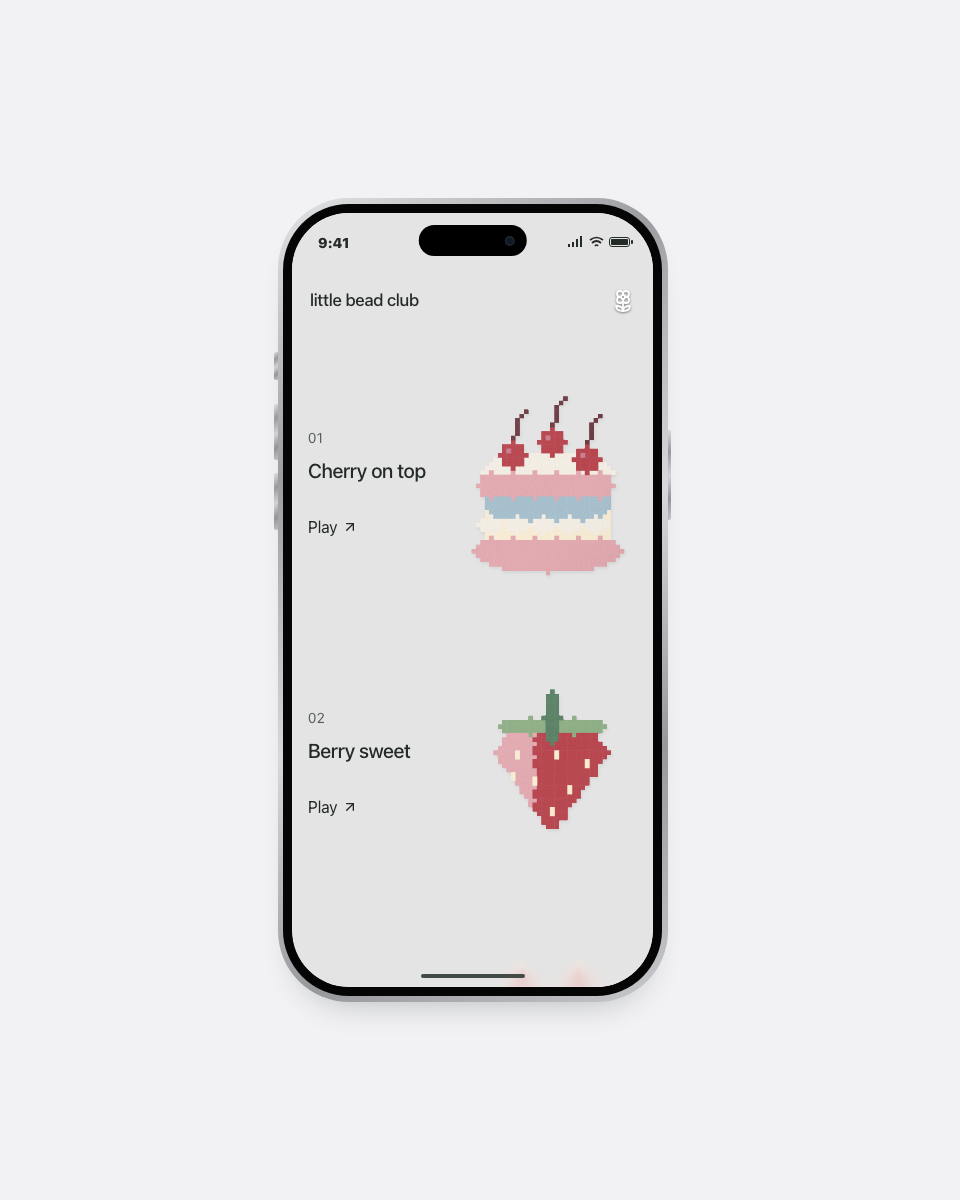
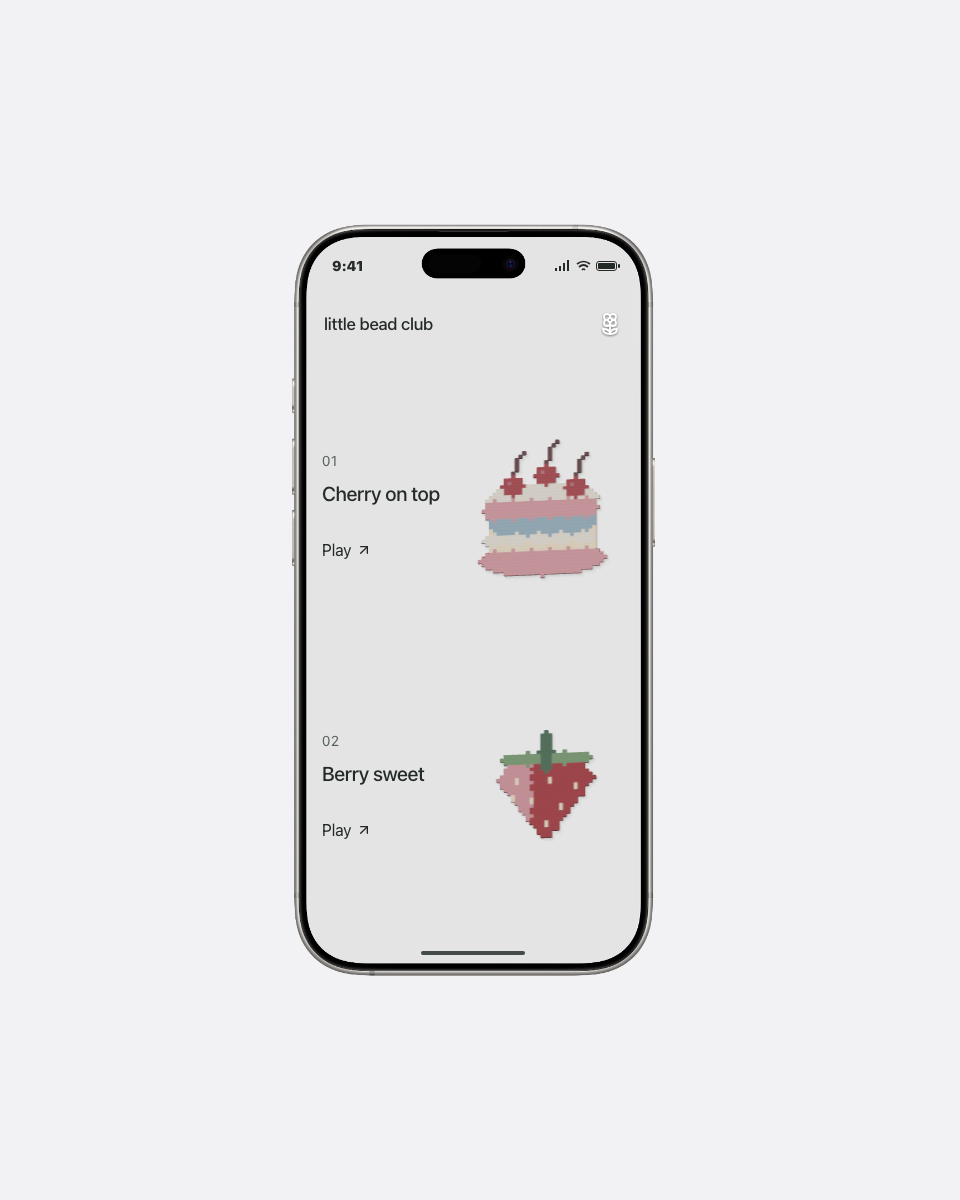
Use an official iPhone bezel and physically shaded fused beads

Changed region(s): [[0.2812, 0.1542, 0.7188, 0.8633]]

diff --git a/components/play/bead-club/bead-club.tsx b/components/play/bead-club/bead-club.tsx
@@ -1,6 +1,8 @@
 "use client";
 
 import * as React from "react";
+import * as THREE from "three";
+import { RoomEnvironment } from "three/examples/jsm/environments/RoomEnvironment.js";
 import { AnimatePresence, motion, useReducedMotion } from "framer-motion";
 import { ArrowLeft, ArrowUpRight, Flower2 } from "lucide-react";
 
@@ -14,7 +16,7 @@ export type BeadClubProps = {
 type Bead = { x: number; y: number; color: string };
 type BeadMaterial = "pressed" | "frosted" | "glitter";
 type Artwork = { material: BeadMaterial; id: string; name: string; category: "Sweet things" | "Little friends"; background: string; beads: Bead[]; colors: string[] };
-const PHONE_HEIGHT = 390 * 622 / 302;
+const PHONE_HEIGHT = 390 * 2822 / 1406;
 const P = { pink: "#e7a9b1", rose: "#c97b8a", cream: "#fff1d8", white: "#f9f3e9", blue: "#a6c1d0", red: "#b93e48", dark: "#68343c", green: "#8baf83", leaf: "#547d60", yellow: "#efd07f", brown: "#a47659" };
 
 // Original patterns, made from a bead grid rather than flattened pictures.
@@ -98,7 +100,7 @@ const artworks: Artwork[] = [
   { id: "bear", name: "Honey bear", category: "Little friends", background: "#eadfd7" },
 ].map(item => { const beads = makePattern(item.id); return { ...item, material: (item.id === "cake" || item.id === "bunny" ? "pressed" : item.id === "pudding" || item.id === "bear" ? "glitter" : "frosted") as BeadMaterial, category: item.category as Artwork["category"], beads, colors: [...new Set(beads.map(bead => bead.color))] }; });
 
-function BeadArt({ art, count = art.beads.length, animated = false }: { art: Artwork; count?: number; animated?: boolean }) {
+function FlatBeadArt({ art, count = art.beads.length, animated = false }: { art: Artwork; count?: number; animated?: boolean }) {
   const id = React.useId().replace(/:/g, "");
   const placed = art.beads.slice(0, count);
   const glitter = art.material === "glitter";
@@ -107,6 +109,20 @@ function BeadArt({ art, count = art.beads.length, animated = false }: { art: Art
   // A separate silhouette mask keeps the gentle color bleed inside the piece.
   const cell = (bead: Bead) => `M${bead.x - .06} ${bead.y - .06}h1.12v1.12h-1.12Z`;
   const silhouette = placed.map(cell).join("");
+  const depth = { x: .1, y: .28 };
+  const occupied = new Set(placed.map(bead => `${bead.x},${bead.y}`));
+  const underside = new Map<string, string[]>();
+  const sides: { path: string; color: string }[] = [];
+  const shade = (color: string, amount: number) => `#${color.slice(1).match(/../g)!.map(channel => Math.round(parseInt(channel, 16) * amount).toString(16).padStart(2, "0")).join("")}`;
+  const wall = (x1: number, y1: number, x2: number, y2: number) => `M${x1} ${y1}L${x2} ${y2}L${x2 + depth.x} ${y2 + depth.y}L${x1 + depth.x} ${y1 + depth.y}Z`;
+  for (const bead of placed) {
+    const paths = underside.get(bead.color) ?? [];
+    paths.push(cell(bead));
+    underside.set(bead.color, paths);
+    // Only the exposed perimeter has a side wall. Interior joins stay fused.
+    if (!occupied.has(`${bead.x + 1},${bead.y}`)) sides.push({ path: wall(bead.x + 1.06, bead.y - .06, bead.x + 1.06, bead.y + 1.06), color: shade(bead.color, .84) });
+    if (!occupied.has(`${bead.x},${bead.y + 1}`)) sides.push({ path: wall(bead.x - .06, bead.y + 1.06, bead.x + 1.06, bead.y + 1.06), color: shade(bead.color, .9) });
+  }
   return <svg viewBox="0 0 40 42" role="img" aria-label={`${art.name} ${art.material} fused bead pattern`} className="bc-art" data-material={art.material}>
     <defs>
       <filter id={`${id}-edge`} x="-5%" y="-5%" width="110%" height="110%" colorInterpolationFilters="sRGB">
@@ -131,6 +147,12 @@ function BeadArt({ art, count = art.beads.length, animated = false }: { art: Art
       </filter>
       <linearGradient id={`${id}-light`} x1="0" y1="0" x2=".8" y2="1"><stop stopColor="#fff" stopOpacity=".05" /><stop offset=".55" stopColor="#fff" stopOpacity="0" /><stop offset="1" stopColor="#5c5149" stopOpacity=".04" /></linearGradient>
     </defs>
+    <g className="bc-bead-thickness" aria-hidden="true">
+      <g transform={`translate(${depth.x} ${depth.y})`} mask={`url(#${id}-shape)`}>
+        {[...underside].map(([color, paths]) => <path key={color} d={paths.join("")} fill={shade(color, .84)} />)}
+      </g>
+      {sides.map((side, index) => <path key={index} d={side.path} fill={side.color} stroke={side.color} strokeWidth=".045" strokeLinejoin="round" />)}
+    </g>
     <g className="bc-material-surface" mask={`url(#${id}-shape)`}>
       <g className="bc-fused-colors" filter={`url(#${id}-surface)`}>
         {placed.map(bead => <g key={`${bead.x}-${bead.y}`} data-bead-color={bead.color} className={animated ? "bc-bead-drop" : undefined} style={{ transformOrigin: `${bead.x + .5}px ${bead.y + .5}px` }}><path d={cell(bead)} fill={bead.color} /></g>)}
@@ -146,6 +168,157 @@ function BeadArt({ art, count = art.beads.length, animated = false }: { art: Art
       })}
     </g>
   </svg>;
+}
+
+// One offscreen renderer serves every preview; displayed canvases are plain 2D.
+// Geometry and lighting, rather than painted side-wall colors, create the depth.
+function fusedShapes(beads: Bead[]) {
+  type Edge = { x: number; y: number; ex: number; ey: number; dir: number; used?: boolean };
+  const occupied = new Set(beads.map(b => `${b.x},${b.y}`));
+  const edges: Edge[] = [];
+  const starts = new Map<string, Edge[]>();
+  const add = (edge: Edge) => { edges.push(edge); const key = `${edge.x},${edge.y}`; const list = starts.get(key) ?? []; list.push(edge); starts.set(key, list); };
+  for (const b of beads) {
+    if (!occupied.has(`${b.x},${b.y - 1}`)) add({ x: b.x, y: b.y, ex: b.x + 1, ey: b.y, dir: 0 });
+    if (!occupied.has(`${b.x + 1},${b.y}`)) add({ x: b.x + 1, y: b.y, ex: b.x + 1, ey: b.y + 1, dir: 1 });
+    if (!occupied.has(`${b.x},${b.y + 1}`)) add({ x: b.x + 1, y: b.y + 1, ex: b.x, ey: b.y + 1, dir: 2 });
+    if (!occupied.has(`${b.x - 1},${b.y}`)) add({ x: b.x, y: b.y + 1, ex: b.x, ey: b.y, dir: 3 });
+  }
+  const loops: { points: { x: number; y: number }[]; area: number }[] = [];
+  for (const first of edges) {
+    if (first.used) continue;
+    const points: { x: number; y: number }[] = [];
+    let edge: Edge | undefined = first;
+    while (edge && !edge.used) {
+      edge.used = true; points.push({ x: edge.x, y: edge.y });
+      if (edge.ex === first.x && edge.ey === first.y) break;
+      const dir: number = edge.dir;
+      edge = (starts.get(`${edge.ex},${edge.ey}`) ?? []).filter(candidate => !candidate.used).sort((a, b) => [1, 0, 3, 2].indexOf((a.dir - dir + 4) % 4) - [1, 0, 3, 2].indexOf((b.dir - dir + 4) % 4))[0];
+    }
+    const area = points.reduce((sum, p, i) => { const q = points[(i + 1) % points.length]; return sum + p.x * q.y - q.x * p.y; }, 0) / 2;
+    if (points.length > 2) loops.push({ points, area });
+  }
+  const outer = loops.filter(loop => loop.area > 0);
+  const contains = (poly: { x: number; y: number }[], p: { x: number; y: number }) => {
+    let inside = false;
+    for (let i = 0, j = poly.length - 1; i < poly.length; j = i++) {
+      if ((poly[i].y > p.y) !== (poly[j].y > p.y) && p.x < (poly[j].x - poly[i].x) * (p.y - poly[i].y) / (poly[j].y - poly[i].y) + poly[i].x) inside = !inside;
+    }
+    return inside;
+  };
+  const rounded = <T extends THREE.Path>(path: T, points: { x: number; y: number }[]) => {
+    const corners = points.filter((p, i) => { const a = points[(i + points.length - 1) % points.length], b = points[(i + 1) % points.length]; return (p.x - a.x) * (b.y - p.y) !== (p.y - a.y) * (b.x - p.x); });
+    for (let i = 0; i < corners.length; i++) {
+      const p = corners[i], a = corners[(i + corners.length - 1) % corners.length], b = corners[(i + 1) % corners.length];
+      const da = Math.hypot(a.x - p.x, a.y - p.y), db = Math.hypot(b.x - p.x, b.y - p.y), r = Math.min(.18, da / 3, db / 3);
+      const entry = { x: p.x + (a.x - p.x) * r / da - 20, y: 21 - p.y - (a.y - p.y) * r / da };
+      const exit = { x: p.x + (b.x - p.x) * r / db - 20, y: 21 - p.y - (b.y - p.y) * r / db };
+      if (!i) path.moveTo(entry.x, entry.y); else path.lineTo(entry.x, entry.y);
+      path.quadraticCurveTo(p.x - 20, 21 - p.y, exit.x, exit.y);
+    }
+    path.closePath(); return path;
+  };
+  return outer.map(loop => {
+    const shape = rounded(new THREE.Shape(), loop.points);
+    for (const hole of loops.filter(item => item.area < 0)) {
+      if (contains(loop.points, hole.points[0])) shape.holes.push(rounded(new THREE.Path(), hole.points));
+    }
+    return shape;
+  });
+}
+
+function physicalMaterials(art: Artwork) {
+  const resolution = 20;
+  const color = document.createElement("canvas"); color.width = 40 * resolution; color.height = 42 * resolution;
+  const ctx = color.getContext("2d")!;
+  ctx.fillStyle = art.beads[0]?.color ?? "#f0eade"; ctx.fillRect(0, 0, color.width, color.height);
+  for (const bead of art.beads) { ctx.fillStyle = bead.color; ctx.fillRect((bead.x - .2) * resolution, (bead.y - .2) * resolution, resolution * 1.4, resolution * 1.4); }
+  for (const bead of art.beads) { ctx.fillStyle = bead.color; ctx.fillRect(bead.x * resolution, bead.y * resolution, resolution, resolution); }
+  const bump = document.createElement("canvas"); bump.width = color.width; bump.height = color.height;
+  const bumpCtx = bump.getContext("2d")!; const image = bumpCtx.createImageData(bump.width, bump.height);
+  for (let y = 0; y < bump.height; y++) for (let x = 0; x < bump.width; x++) {
+    const seed = ((x * 73856093) ^ (y * 19349663)) >>> 0;
+    const dx = x % resolution / resolution - .5, dy = y % resolution / resolution - .5;
+    const v = 128 + (seed % 9 - 4) * .7 - Math.exp(-(dx * dx + dy * dy) / .025) * 22;
+    const i = (y * bump.width + x) * 4; image.data[i] = image.data[i + 1] = image.data[i + 2] = v; image.data[i + 3] = 255;
+  }
+  bumpCtx.putImageData(image, 0, 0);
+  const map = new THREE.CanvasTexture(color); map.colorSpace = THREE.SRGBColorSpace; map.anisotropy = 4;
+  const bumpMap = new THREE.CanvasTexture(bump); bumpMap.generateMipmaps = false; bumpMap.minFilter = THREE.LinearFilter;
+  const finish = art.material === "pressed" ? { bumpScale: .6, roughness: .55, clearcoat: .16 } : art.material === "frosted" ? { bumpScale: .38, roughness: .68, clearcoat: .08 } : { bumpScale: .3, roughness: .4, clearcoat: .32 };
+  const common = { map, bumpMap, ...finish, metalness: 0, clearcoatRoughness: .5, ior: 1.46 };
+  return [new THREE.MeshPhysicalMaterial(common), new THREE.MeshPhysicalMaterial({ ...common, bumpScale: .012, roughness: .46, clearcoat: .4 })];
+}
+
+type BeadStudio = { renderer: THREE.WebGLRenderer; scene: THREE.Scene; camera: THREE.OrthographicCamera; mesh: THREE.Mesh; materials: Map<string, THREE.MeshPhysicalMaterial[]>; completed: Map<string, THREE.BufferGeometry> };
+let beadStudio: BeadStudio | undefined;
+let beadWebGLUnavailable = false;
+function getBeadStudio() {
+  if (beadStudio) return beadStudio;
+  if (beadWebGLUnavailable) return null;
+  let renderer: THREE.WebGLRenderer;
+  try { renderer = new THREE.WebGLRenderer({ alpha: true, antialias: true, preserveDrawingBuffer: true }); }
+  catch { beadWebGLUnavailable = true; return null; }
+  renderer.setPixelRatio(1); renderer.setClearColor(0, 0); renderer.outputColorSpace = THREE.SRGBColorSpace;
+  renderer.toneMapping = THREE.NoToneMapping; renderer.toneMappingExposure = 1;
+  renderer.shadowMap.enabled = true; renderer.shadowMap.type = THREE.PCFShadowMap;
+  const scene = new THREE.Scene();
+  const room = new RoomEnvironment(); const pmrem = new THREE.PMREMGenerator(renderer);
+  const environment = pmrem.fromScene(room, .04).texture; scene.environment = environment; scene.environmentIntensity = .28; room.dispose(); pmrem.dispose();
+  scene.add(new THREE.HemisphereLight(0xffffff, 0xaaa394, .08));
+  const light = new THREE.DirectionalLight(0xffffff, 1.1); light.position.set(-28, 38, 32); light.castShadow = true;
+  Object.assign(light.shadow.camera, { left: -26, right: 26, top: 27, bottom: -27, near: 1, far: 120 });
+  light.shadow.mapSize.set(512, 512); light.shadow.bias = -.0002; light.shadow.normalBias = .03; light.shadow.radius = 3.5;
+  scene.add(light);
+  const mesh = new THREE.Mesh(new THREE.BufferGeometry(), new THREE.MeshPhysicalMaterial()); mesh.castShadow = true; mesh.receiveShadow = true; scene.add(mesh);
+  const floor = new THREE.Mesh(new THREE.PlaneGeometry(70, 70), new THREE.ShadowMaterial({ opacity: .12 })); floor.position.z = -.12; floor.receiveShadow = true; scene.add(floor);
+  const camera = new THREE.OrthographicCamera(-23, 23, 23, -23, .1, 180); camera.position.set(8, -42, 85); camera.lookAt(0, 0, 0);
+  beadStudio = { renderer, scene, camera, mesh, materials: new Map(), completed: new Map() };
+  return beadStudio;
+}
+
+function drawPhysicalBeads(canvas: HTMLCanvasElement, art: Artwork, count: number) {
+  const studio = getBeadStudio();
+  if (!studio || studio.renderer.getContext().isContextLost()) return false;
+  const rect = canvas.getBoundingClientRect(); if (!rect.width || !rect.height) return false;
+  const pixelRatio = Math.min(window.devicePixelRatio || 1, 2);
+  const width = Math.ceil(rect.width * pixelRatio), height = Math.ceil(rect.height * pixelRatio);
+  canvas.width = width; canvas.height = height;
+  const ctx = canvas.getContext("2d")!; ctx.clearRect(0, 0, width, height);
+  if (!count) return true;
+  let geometry = count === art.beads.length ? studio.completed.get(art.id) : undefined;
+  if (!geometry) {
+    const uv = (vertices: number[], index: number) => new THREE.Vector2((vertices[index * 3] + 20) / 40, (vertices[index * 3 + 1] + 21) / 42);
+    geometry = new THREE.ExtrudeGeometry(fusedShapes(art.beads.slice(0, count)), {
+      depth: .26, curveSegments: 3, bevelEnabled: true, bevelThickness: .07, bevelSize: .1, bevelSegments: 4, steps: 1,
+      UVGenerator: { generateTopUV: (_g, vertices, ...indices) => indices.map(i => uv(vertices, i)), generateSideWallUV: (_g, vertices, ...indices) => indices.map(i => uv(vertices, i)) },
+    });
+    if (count === art.beads.length) studio.completed.set(art.id, geometry);
+  }
+  const materials = studio.materials.get(art.id) ?? physicalMaterials(art); studio.materials.set(art.id, materials);
+  studio.mesh.geometry = geometry; studio.mesh.material = materials;
+  const aspect = width / height, viewHeight = Math.max(45, 43 / aspect);
+  Object.assign(studio.camera, { left: -viewHeight * aspect / 2, right: viewHeight * aspect / 2, top: viewHeight / 2, bottom: -viewHeight / 2 }); studio.camera.updateProjectionMatrix();
+  studio.renderer.setSize(width, height, false); studio.renderer.render(studio.scene, studio.camera);
+  ctx.drawImage(studio.renderer.domElement, 0, 0);
+  if (count !== art.beads.length) geometry.dispose();
+  return true;
+}
+
+function BeadArt({ art, count = art.beads.length, animated = false }: { art: Artwork; count?: number; animated?: boolean }) {
+  const ref = React.useRef<HTMLCanvasElement>(null);
+  const [ready, setReady] = React.useState(false);
+  React.useEffect(() => {
+    const canvas = ref.current; if (!canvas) return;
+    let frame = 0;
+    const paint = () => { cancelAnimationFrame(frame); frame = requestAnimationFrame(() => { try { if (drawPhysicalBeads(canvas, art, count)) setReady(true); } catch { setReady(false); } }); };
+    const observer = new ResizeObserver(paint); observer.observe(canvas); paint();
+    return () => { observer.disconnect(); cancelAnimationFrame(frame); };
+  }, [art, count]);
+  return <div className="bc-art bc-art-3d" role="img" aria-label={`${art.name} fused plastic bead pattern`} data-material={art.material} data-render-mode={ready ? "physical" : "fallback"} data-placed={count} data-active-color={art.beads[Math.max(0, count - 1)]?.color}>
+    <canvas ref={ref} aria-hidden="true" style={{ width: "100%", height: "100%", opacity: ready ? 1 : 0 }} />
+    {!ready && <div aria-hidden="true" style={{ display: "contents" }}><FlatBeadArt art={art} count={count} animated={animated} /></div>}
+  </div>;
 }
 
 function Replay({ art, onBack, reduced }: { art: Artwork; onBack: () => void; reduced: boolean }) {
@@ -186,15 +359,6 @@ function Replay({ art, onBack, reduced }: { art: Artwork; onBack: () => void; re
   </motion.section>;
 }
 
-// Same 280 × 600 screen, 7px bezel, 4px band and 44px screen radius as
-// UI Walkthrough's IPhoneFrame. A single width unit keeps every radius aligned.
-function SilverIPhoneFrame() {
-  return <div className="bc-silver-frame" aria-hidden="true">
-    <span className="bc-side bc-side-action" /><span className="bc-side bc-side-up" /><span className="bc-side bc-side-down" /><span className="bc-side bc-side-power" />
-    <span className="bc-frame-band" /><span className="bc-frame-bezel" />
-  </div>;
-}
-
 
 export function BeadClub({ loop = false, className }: BeadClubProps) {
   const host = React.useRef<HTMLDivElement>(null);
@@ -225,9 +389,8 @@ export function BeadClub({ loop = false, className }: BeadClubProps) {
   return <div ref={host} className={`bc-stage ${className ?? ""}`} data-preview={loop ? "loop" : "interactive"}>
     <style>{styles}</style>
     <div className="bc-phone-space" style={loop ? { width: 390 * scale, height: PHONE_HEIGHT * scale } : undefined}><div className="bc-phone" style={loop ? { width: 390, height: PHONE_HEIGHT, transform: `scale(${scale})` } : undefined}>
-      <SilverIPhoneFrame />
+
       <div className="bc-screen" data-detail={!!selected}>
-        <div className="bc-island" aria-hidden="true"><span /></div>
         <div className="bc-status" aria-hidden="true"><b>9:41</b><div className="bc-indicators"><svg width="16" height="12" viewBox="0 0 16 12"><path d="M1 8v3M5 6v5M9 3v8M13 0v11" stroke="currentColor" strokeWidth="2" /></svg><svg width="15" height="12" viewBox="0 0 15 12"><path d="M1 4Q7.5-1 14 4M3 7q4.5-4 9 0M6 10q1.5-2 3 0" fill="none" stroke="currentColor" strokeWidth="1.7" /></svg><span className="bc-battery" /></div></div>
         <div className="bc-collection" inert={!!selected}>
           <header className="bc-header"><span>little bead club</span><Flower2 className="bc-flower" size={24} strokeWidth={1.8} aria-hidden="true" /></header>
@@ -243,7 +406,9 @@ export function BeadClub({ loop = false, className }: BeadClubProps) {
         <div className="bc-glass-reflection" aria-hidden="true" />
         <div className="bc-home" aria-hidden="true" />
       </div>
-
+      {/* Apple Design Resources product bezel; retain its separate asset terms. */}
+      {/* eslint-disable-next-line @next/next/no-img-element */}
+      <img className="bc-device-frame" src="/components/bead-club/iphone-16-pro-white.png" width="1406" height="2822" alt="" aria-hidden="true" draggable={false} />
     </div></div>
   </div>;
 }
@@ -251,17 +416,16 @@ export function BeadClub({ loop = false, className }: BeadClubProps) {
 const styles = `
 .bc-stage{width:100%;height:100%;min-height:520px;display:flex;align-items:center;justify-content:center;overflow:hidden;background:transparent;color:#242a26;font-family:-apple-system,BlinkMacSystemFont,"Helvetica Neue",Arial,sans-serif;isolation:isolate}.bc-stage[data-preview="interactive"]{min-height:844px}
 .bc-stage *{box-sizing:border-box}.bc-stage button{cursor:pointer;font-family:inherit;color:inherit}.bc-stage button:focus-visible{outline:2px solid #3c5044;outline-offset:4px}.bc-sr-only{position:absolute;width:1px;height:1px;padding:0;margin:-1px;overflow:hidden;clip-path:inset(50%);white-space:nowrap;border:0}
-.bc-phone-space{position:relative;flex-shrink:0;width:min(390px,calc(100% - 16px));aspect-ratio:302/622}.bc-phone{position:absolute;inset:0;width:100%;height:100%;transform-origin:top left;container-type:inline-size;--bc-silver:linear-gradient(145deg,#e4e5e6 0%,#9b9da0 26%,#d7d8db 52%,#96989c 76%,#c7c9cd 100%)}
-.bc-silver-frame{position:absolute;inset:0;pointer-events:none}.bc-frame-band{position:absolute;inset:0;border-radius:calc(100cqw * 55 / 302);background:var(--bc-silver);box-shadow:0 20px 36px -24px #17201a55}.bc-frame-bezel{position:absolute;inset:calc(100cqw * 4 / 302);border-radius:calc(100cqw * 51 / 302);background:#050506}.bc-side{position:absolute;left:-.83%;width:1.16%;border-radius:2px;background:var(--bc-silver)}.bc-side-action{top:19.13%;height:3.54%}.bc-side-up{top:25.56%;height:7.07%}.bc-side-down{top:34.24%;height:7.07%}.bc-side-power{left:auto;right:-.83%;top:28.78%;height:11.25%}
-.bc-screen{position:absolute;inset:calc(100cqw * 11 / 302);overflow:hidden;border-radius:calc(100cqw * 44 / 302);clip-path:inset(0 round calc(100cqw * 44 / 302));background:#e4e4e4;isolation:isolate}.bc-island{position:absolute;left:50%;top:calc(100cqw * 10 / 302);width:calc(100cqw * 84 / 302);height:calc(100cqw * 24 / 302);transform:translateX(-50%);border-radius:calc(100cqw * 12 / 302);background:#000;pointer-events:none;z-index:15}.bc-island>span{position:absolute;right:calc(100cqw * 9 / 302);top:calc(100cqw * 8 / 302);width:calc(100cqw * 8 / 302);height:calc(100cqw * 8 / 302);border-radius:50%;background:#111a24;box-shadow:inset 0 0 0 1.5px #1c2733}
+.bc-phone-space{position:relative;flex-shrink:0;width:min(390px,calc(100% - 8px));aspect-ratio:1406/2822}.bc-phone{position:absolute;inset:0;width:100%;height:100%;transform-origin:top left;container-type:inline-size}.bc-device-frame{position:absolute;inset:0;width:100%;height:100%;pointer-events:none;z-index:20}
+.bc-screen{position:absolute;left:7.254623%;top:3.543586%;width:85.775249%;height:92.912828%;overflow:hidden;mask-image:url('/components/bead-club/iphone-screen-mask.svg');-webkit-mask-image:url('/components/bead-club/iphone-screen-mask.svg');mask-size:100% 100%;-webkit-mask-size:100% 100%;background:#e4e4e4;isolation:isolate}
 
 .bc-status{height:55px;position:relative;display:flex;align-items:center;justify-content:space-between;padding:4px clamp(15px,6cqw,24px) 0 clamp(16px,6.7cqw,26px);z-index:12;font-size:14px;font-weight:600;color:#242a26;background:transparent}.bc-indicators{display:flex;align-items:center;gap:5px}.bc-battery{width:21px;height:10px;border-radius:3px;border:1px solid currentColor;position:relative}.bc-battery:before{content:'';position:absolute;inset:1px;background:currentColor;border-radius:1px}.bc-battery:after{content:'';position:absolute;width:2px;height:4px;right:-4px;top:2px;background:currentColor;border-radius:1px}
 .bc-header::before,.bc-detail-nav::before{content:'';position:absolute;left:0;right:0;top:-55px;bottom:-28px;z-index:-1;background:transparent;backdrop-filter:blur(14px);-webkit-backdrop-filter:blur(14px);mask-image:linear-gradient(#000 0%,#000 68%,transparent 100%);-webkit-mask-image:linear-gradient(#000 0%,#000 68%,transparent 100%);pointer-events:none}
 .bc-screen[data-detail="true"] .bc-collection{visibility:hidden}.bc-collection{position:relative;height:calc(100% - 55px);display:flex;flex-direction:column}.bc-header{position:absolute;left:0;right:0;top:0;z-index:8;min-height:78px;color:#242a26;padding:14px 18px 26px;display:flex;align-items:center;justify-content:space-between;gap:8px;font-size:1.0625rem;font-weight:500;letter-spacing:-.35px}.bc-flower{flex-shrink:0;color:#fff;filter:drop-shadow(0 1px 1px #28362a99)}.bc-list{flex:1;min-height:0;overflow:auto;overscroll-behavior:contain;padding:94px 16px 72px;scrollbar-width:none;scroll-padding:16px 0 72px}.bc-list::-webkit-scrollbar{display:none}
-.bc-card{width:100%;border:0;background:transparent;padding:0;margin:0 0 28px;display:grid;grid-template-columns:minmax(0,1fr) minmax(0,1.2fr);gap:10px;text-align:left;align-items:center;scroll-margin:16px 0 72px}.bc-card-copy{padding:12px 0;display:flex;flex-direction:column;align-items:flex-start;min-width:0;overflow-wrap:anywhere}.bc-number{font-size:.875rem;color:#535e56;letter-spacing:.2px}.bc-card h2{font-size:1.25rem;line-height:1.25;font-weight:500;margin:10px 0 10px;letter-spacing:-.4px}.bc-card-link{display:flex;align-items:center;gap:5px;font-size:1rem;line-height:1.5;min-height:44px;margin-top:12px}.bc-art-panel{height:252px;position:relative;overflow:hidden;display:flex;align-items:center;justify-content:center;background:transparent}.bc-art{width:100%;height:100%;display:block;overflow:visible;filter:drop-shadow(1px 2px 1.5px #30393616)}.bc-art-panel>.bc-art{width:100%;height:100%;transition:transform .5s}.bc-card:hover .bc-art{transform:translateY(-2px)}
+.bc-card{width:100%;border:0;background:transparent;padding:0;margin:0 0 28px;display:grid;grid-template-columns:minmax(0,1fr) minmax(0,1.2fr);gap:10px;text-align:left;align-items:center;scroll-margin:16px 0 72px}.bc-card-copy{padding:12px 0;display:flex;flex-direction:column;align-items:flex-start;min-width:0;overflow-wrap:anywhere}.bc-number{font-size:.875rem;color:#535e56;letter-spacing:.2px}.bc-card h2{font-size:1.25rem;line-height:1.25;font-weight:500;margin:10px 0 10px;letter-spacing:-.4px}.bc-card-link{display:flex;align-items:center;gap:5px;font-size:1rem;line-height:1.5;min-height:44px;margin-top:12px}.bc-art-panel{height:252px;position:relative;overflow:hidden;display:flex;align-items:center;justify-content:center;background:transparent}.bc-art{width:100%;height:100%;display:block;overflow:visible;filter:drop-shadow(.5px 3px 1.5px #493d3033)}.bc-art-3d{position:relative;filter:none}.bc-art-3d>canvas{position:absolute;inset:0}.bc-art-panel>.bc-art{width:100%;height:100%;transition:transform .5s}.bc-card:hover .bc-art{transform:translateY(-2px)}
 .bc-home{position:absolute;width:104px;height:4px;border-radius:4px;background:#424b45;bottom:9px;left:50%;transform:translateX(-50%);z-index:10}
 .bc-glass-edge{position:absolute;bottom:0;left:51%;right:0;height:90px;pointer-events:none;z-index:6;background:transparent}.bc-glass-edge i{position:absolute;inset:0;backdrop-filter:blur(2px);-webkit-backdrop-filter:blur(2px);mask-image:linear-gradient(transparent,#000);-webkit-mask-image:linear-gradient(transparent,#000)}.bc-glass-edge i:nth-child(2){top:25px;backdrop-filter:blur(5px);-webkit-backdrop-filter:blur(5px)}.bc-glass-edge i:nth-child(3){top:54px;backdrop-filter:blur(9px);-webkit-backdrop-filter:blur(9px)}.bc-screen[data-detail="true"] .bc-glass-edge{height:32px}
 .bc-glass-reflection{position:absolute;inset:0;border-radius:inherit;z-index:7;pointer-events:none;box-shadow:inset 0 0 2px #fff4}
 .bc-detail{position:absolute;inset:55px 0 0;background:#e4e4e4;z-index:4;overflow-y:auto;scrollbar-width:none;padding-bottom:58px}.bc-detail-nav{position:sticky;top:0;z-index:8;min-height:56px;display:flex;align-items:center;padding:0 12px;color:#fff}.bc-icon{width:44px;height:44px;min-width:44px;min-height:44px;border:1px solid #fff9;background:#ffffff24;backdrop-filter:blur(10px) saturate(1.25);-webkit-backdrop-filter:blur(10px) saturate(1.25);box-shadow:inset 1px 1px 1px #fffc,0 3px 9px #17231a0b;display:grid;place-items:center;border-radius:50%}.bc-icon svg{filter:drop-shadow(0 1px 1px #28362acc)}.bc-board{height:330px;margin:0 10px;position:relative;padding:8px 0;display:flex;justify-content:center;align-items:center}.bc-board .bc-art{width:100%;height:100%}.bc-detail-caption{display:flex;align-items:center;justify-content:space-between;gap:16px;padding:20px 22px 0}.bc-detail-caption h2{flex:1;min-width:0;font-size:1.375rem;line-height:1.35;font-weight:500;letter-spacing:-.4px;margin:0;overflow-wrap:anywhere}.bc-playback{flex:0 0 auto;position:relative}.bc-play-button{position:relative;display:grid;place-items:center;width:60px;height:60px;aspect-ratio:1;border:0;border-radius:50%;background:linear-gradient(145deg,#ffffff80,#ffffff20 48%,#ffffff45);backdrop-filter:blur(12px) saturate(1.3);-webkit-backdrop-filter:blur(12px) saturate(1.3);box-shadow:inset 1px 1px 1px #fffe,inset -1px -1px 2px #ffffff80,0 5px 16px #24372b12;color:#304236;padding:0;flex-shrink:0}.bc-play-button::before{content:'';position:absolute;inset:2px;border-radius:50%;background:radial-gradient(ellipse at 28% 14%,#ffffff90,transparent 65%);pointer-events:none}.bc-play-button[aria-pressed="true"]{box-shadow:inset 1px 1px 1px #fff,inset -1px -1px 3px #ffffff80,0 3px 12px #24372b16}.bc-play-outline{position:absolute;inset:0;width:100%;height:100%;pointer-events:none}.bc-play-symbol{position:relative;margin-left:2px}.bc-play-progress{transition:stroke-dashoffset .08s linear}
 
-.bc-bead-drop{animation:bc-place .24s cubic-bezier(.2,.65,.3,1) both}@keyframes bc-place{from{opacity:0;transform:translateY(-.5px)}to{opacity:1;transform:translateY(0) scale(1)}}@media(prefers-reduced-motion:reduce){.bc-stage *{animation:none!important;transition:none!important}}`;
+.bc-bead-drop{animation:bc-place .24s cubic-bezier(.2,.65,.3,1) both}@keyframes bc-place{from{opacity:0;transform:translateY(-.5px)}to{opacity:1;transform:translateY(0) scale(1)}}@container(max-width:280px){.bc-indicators{gap:3px}.bc-indicators svg{width:13px}.bc-battery{width:18px}}@media(prefers-reduced-motion:reduce){.bc-stage *{animation:none!important;transition:none!important}}`;

diff --git a/src/lib/component-registry.ts b/src/lib/component-registry.ts
@@ -109,12 +109,18 @@ export const componentRegistry = {
     index: "022",
     title: "Bead Club",
     description:
-      "A minimal collection of six original, ironed bead patterns with pressed, frosted and glitter finishes inside a silver iPhone on a transparent stage. Open a tiny cake, strawberry or little friend and replay its creation bead by bead.",
+      "A minimal collection of six original bead patterns with rounded, heat-fused 3D geometry and soft plastic finishes inside an official silver iPhone 16 Pro bezel on a transparent stage. Open a tiny cake, strawberry or little friend and replay its creation bead by bead.",
     category: "Play",
     status: "NEW",
     statusClassName: "bg-[var(--jitter-orange)]/12 text-[var(--jitter-orange)]",
     createdAt: "2026-11-02",
     codePath: "components/play/bead-club/bead-club.tsx",
+    previewStatic: true,
+    requiredAssets: [
+      { path: "public/components/bead-club/iphone-16-pro-white.png", license: "Apple Design Resources terms", credit: "Apple Inc. iPhone 16 Pro White Titanium product bezel, from Apple Design Resources, supplied via jamesjingyi/mockup-device-frames. https://developer.apple.com/design/resources/" },
+      { path: "public/components/bead-club/iphone-screen-mask.svg", license: "Apple Design Resources terms", credit: "Screen-opening mask derived from the product bezel alpha, for accurate UI placement." },
+      { path: "public/components/bead-club/TERMS.txt", license: "Apple Design Resources terms", credit: "Retain the source and product-bezel usage terms; this asset is not MIT-licensed." },
+    ],
 
   }),
   uiWalkthrough: createComponentMeta({

diff --git a/components/play/bead-club/README.md b/components/play/bead-club/README.md
@@ -1,12 +1,12 @@
 # Bead Club
 
-A minimal collection of six original, ironed bead patterns with pressed, frosted and glitter finishes inside a silver iPhone on a transparent stage. Open a tiny cake, strawberry or little friend and replay its creation bead by bead.
+A minimal collection of six original bead patterns with rounded, heat-fused 3D geometry and soft plastic finishes inside an official silver iPhone 16 Pro bezel on a transparent stage. Open a tiny cake, strawberry or little friend and replay its creation bead by bead.
 
 ![Bead Club preview](https://atomicmotion.dev/previews/bead-club.png)
 
 - **Category:** Play
 - **Demo:** https://atomicmotion.dev/components/bead-club
-- **Dependencies:** framer-motion, lucide-react
+- **Dependencies:** framer-motion, lucide-react, three
 
 ## Setup
 
@@ -16,7 +16,13 @@ Enable Tailwind in your app stylesheet (`@import "tailwindcss";`) and make sure 
 Install the compatible dependency ranges tested by this repository:
 
 ```bash
-npm install framer-motion@^12.40.0 lucide-react@^1.18.0
+npm install framer-motion@^12.40.0 lucide-react@^1.18.0 three@^0.169.0
+```
+
+For TypeScript, also install the matching Three.js declarations:
+
+```bash
+npm install -D @types/three@^0.169.0
 ```
 
 ## Usage
@@ -50,7 +56,14 @@ Named export: `BeadClub`. Public types: `BeadClubProps`.
 - **Source access:** Free and open source.
 - **Code license:** MIT (existing source); asset licenses are listed separately.
 
-This component is self-contained — the entire component is `bead-club.tsx`.
-Copy the source file or this folder into your project. No gallery imports or global theme file are required.
+## Required assets
+
+The component code is one file, but it also loads these files at runtime:
+
+- [public/components/bead-club/iphone-16-pro-white.png](../../../public/components/bead-club/iphone-16-pro-white.png) — Apple Design Resources terms. Apple Inc. iPhone 16 Pro White Titanium product bezel, from Apple Design Resources, supplied via jamesjingyi/mockup-device-frames. https://developer.apple.com/design/resources/
+- [public/components/bead-club/iphone-screen-mask.svg](../../../public/components/bead-club/iphone-screen-mask.svg) — Apple Design Resources terms. Screen-opening mask derived from the product bezel alpha, for accurate UI placement.
+- [public/components/bead-club/TERMS.txt](../../../public/components/bead-club/TERMS.txt) — Apple Design Resources terms. Retain the source and product-bezel usage terms; this asset is not MIT-licensed.
+
+Copy the component and every required asset, preserving the attribution above.
 
 <!-- Generated by scripts/generate-component-readmes.mjs. Do not edit by hand. -->

diff --git a/ASSETS.md b/ASSETS.md
@@ -8,6 +8,7 @@ carry a different license than the code that ships them. Checked by
 
 | Path | Source | Author | License | Credited in |
 | --- | --- | --- | --- | --- |
+| `public/components/bead-club/iphone-16-pro-white.png`, `public/components/bead-club/iphone-screen-mask.svg`, `public/components/bead-club/TERMS.txt`, `public/previews/bead-club.png` | [Apple Design Resources](https://developer.apple.com/design/resources/), PNG supplied through [jamesjingyi/mockup-device-frames](https://github.com/jamesjingyi/mockup-device-frames) | Apple Inc. | Apple Design Resources product-bezel terms; not MIT | Bundled `TERMS.txt`, Bead Club README and registry `requiredAssets` |
 | `public/emoji/*.svg` (40 files) | [OpenMoji](https://openmoji.org) v15.0.0 | OpenMoji project & contributors | CC BY-SA 4.0 | `licenses/OpenMoji-CC-BY-SA-4.0.txt`, `public/emoji/README.md`, root `README.md` |
 | `public/models/gummy-bear.glb` | [Poly Pizza](https://poly.pizza/m/5zl16PPAItW) ("Gummy Bear" by Poly by Google) | Google Poly | CC-BY 3.0 | `components/3d/gradient-gummy-bear/gradient-gummy-bear.tsx` header comment, root `README.md` |
 | `public/paintings/carnevale-birth-of-the-virgin.jpg`, `public/paintings/bruegel-the-harvesters.jpg`, `public/paintings/patinir-penitence-of-saint-jerome.jpg`, `public/paintings/bosch-adoration-of-the-magi.jpg` | [The Met Open Access](https://www.metmuseum.org/art/collection) (objects 435848, 435809, 437261, 435724) | Fra Carnevale; Pieter Bruegel the Elder; Joachim Patinir; Hieronymus Bosch (reproductions by The Metropolitan Museum of Art) | CC0 1.0 | `components/3d/showreel-sphere/showreel-sphere.tsx` header comment, `requiredAssets` in `src/lib/component-registry.ts` |
